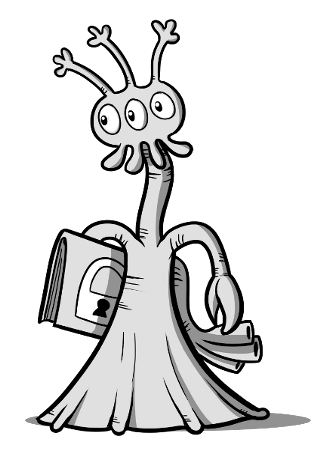
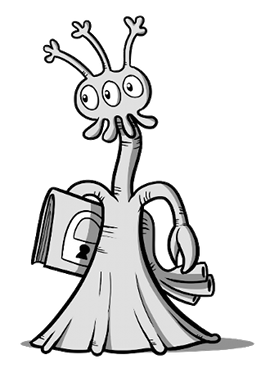
Style the landing page

diff --git a/yithlibraryserver/static/css/style.css b/yithlibraryserver/static/css/style.css
@@ -54,51 +54,135 @@ footer ul li {
     border-color: #333333;
 }
 
+/* Home page styles */
+
 .btn small {
     display: block;
 }
 
-.carousel .carousel-inner {
-    background-image:    -moz-linear-gradient(top, #cccccc, #ffffff);
-    background-image:     -ms-linear-gradient(top, #cccccc, #ffffff);
-    background-image:      -o-linear-gradient(top, #cccccc, #ffffff);
-    background-image: -webkit-linear-gradient(top, #cccccc, #ffffff);
+.main-banner {
+    padding-right: 40%;
+    background: #eeeeee url(../img/yithian.png) no-repeat center right;
+    border: 1px solid #d4d4d4;
+    box-shadow: 0 1px 4px rgba(0, 0, 0, 0.067);
 }
 
-.carousel .item {
-    width: 50%;
-    height: 340px;
-    padding: 13% 40% 6% 10%;
+.main-banner h1 {
+    font-size: 40px;
+    letter-spacing: normal;
+    margin: 10px 0;
 }
 
-.carousel .item#slide1 {
-    background: transparent url(../img/yithian.png) no-repeat 90% center;
+.main-banner p, .main-banner .btn {
+    margin: 10px 0;
 }
 
-.carousel .item#slide2:before {
-    content: url(../img/password-list-screenhost.png);
-    position: absolute;
-    -moz-transform: translate(30em, -4em) rotate(-10deg);
-    -webkit-transform: translate(30em, -4em) rotate(-10deg);
-
-    box-shadow: 6px 6px 10px #cccccc;
-}
-
-.carousel .item#slide3 {
-    background: transparent url(../img/devices.png) no-repeat 90% center;
-}
-
-.carousel .item#slide4 {
-    background: transparent url(../img/lovecraft.png) no-repeat 90% center;
-}
-
-.carousel .item h1 {
+.block-header {
+    color: #ffffff;
+    background-color: #3f3f3f;
     margin: 0;
-    font-size: 400%;
-    line-height: 1.5em;
-    width: 8em;
+    padding: 6px;
+    border-top-left-radius: 6px;
+    border-top-right-radius: 6px;
 }
 
-.carousel .item small {
-    display: block;
+.row-no-margin {
+    margin: 0;
+}
+
+.marketing-block {
+    border-left: 1px solid #d4d4d4;
+    border-right: 1px solid #d4d4d4;
+    border-bottom: 1px solid #eeeeee;
+    margin: 0;
+    height: 200px;
+    text-align: center;
+    box-shadow: 0 2px 4px rgba(0, 0, 0, 0.067);
+}
+
+.marketing-block.marketing-block-first {
+    border-top-left-radius: 6px;
+    border-top-right-radius: 6px;
+    border-top: 1px solid #d4d4d4;
+}
+
+.marketing-block.marketing-block-last {
+    border-bottom: 1px solid #d4d4d4;
+    border-bottom-left-radius: 6px;
+    border-bottom-right-radius: 6px;
+    margin-bottom: 12px;
+}
+
+.marketing-block h3, .marketing-block p,
+.marketing-block ul, .marketing-block ol,
+.marketing-block blockquote {
+    text-align: left;
+}
+
+.marketing-block [class*="span"] {
+    float: left;
+    min-height: 1px;
+    margin-left: 7px;
+    margin-right: 7px;
+}
+
+.marketing-block img {
+    margin: 12px 0;
+}
+
+.marketing-block .unstyled {
+    margin-left: 12px;
+}
+
+.marketing-block-big {
+    height: 340px;
+    background-image: none;
+}
+
+.marketing-block-big img {
+    box-shadow: 6px 6px 10px #cccccc;
+    border: 1px solid #bbb;
+}
+
+.marketing-block-right {
+    background-image:    -moz-linear-gradient(-45deg, #ffffff, #eeeeee);
+    background-image:     -ms-linear-gradient(-45deg, #ffffff, #eeeeee);
+    background-image:      -o-linear-gradient(-45deg, #ffffff, #eeeeee);
+    background-image: -webkit-linear-gradient(-45deg, #ffffff, #eeeeee);
+}
+
+.marketing-block-left {
+    background-image:    -moz-linear-gradient(-45deg, #eeeeee, #ffffff);
+    background-image:     -ms-linear-gradient(-45deg, #eeeeee, #ffffff);
+    background-image:      -o-linear-gradient(-45deg, #eeeeee, #ffffff);
+    background-image: -webkit-linear-gradient(-45deg, #eeeeee, #ffffff);
+}
+
+.marketing-block-right h3, .marketing-block-right p {
+    padding-right: 12px;
+}
+
+.marketing-block-left h3, .marketing-block-left p {
+    padding-left: 12px;
+}
+
+.marketing-block blockquote {
+    margin-top: 75px;
+    padding-left: 12px;
+    margin-left: 12px;
+    border-left: 5px solid #dddddd;
+}
+
+.fancy-list li {
+    padding-left: 20px;
+    margin: 20px 0 20px 20px;
+}
+
+.fancy-list li:before {
+    content: ' \25CF';
+    font-size: 100px;
+    color: #bbbbbb;
+    float: left;
+    margin-top: -6px;
+    margin-left: -64px;
 }
